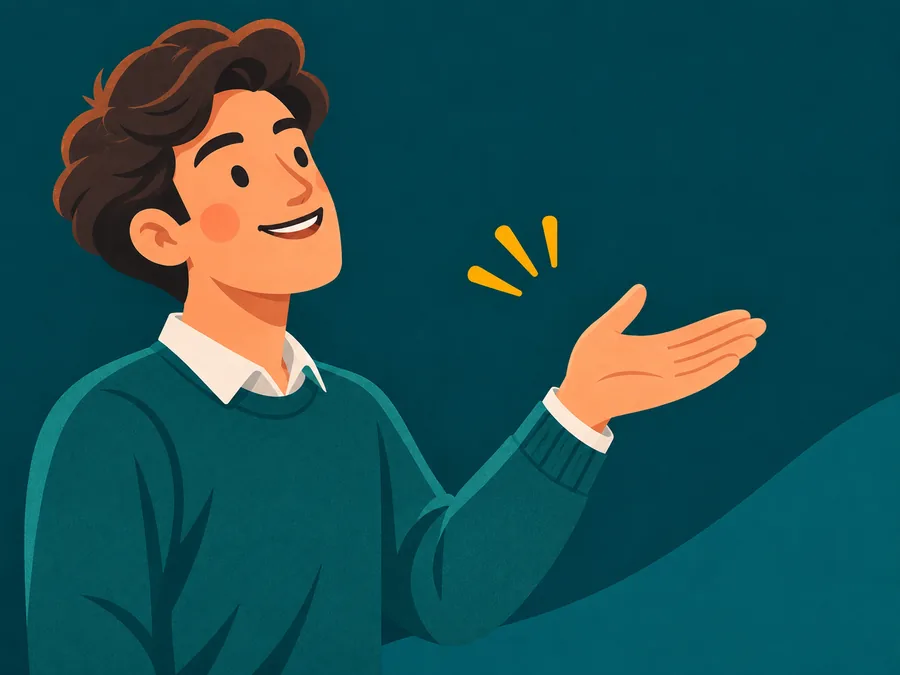
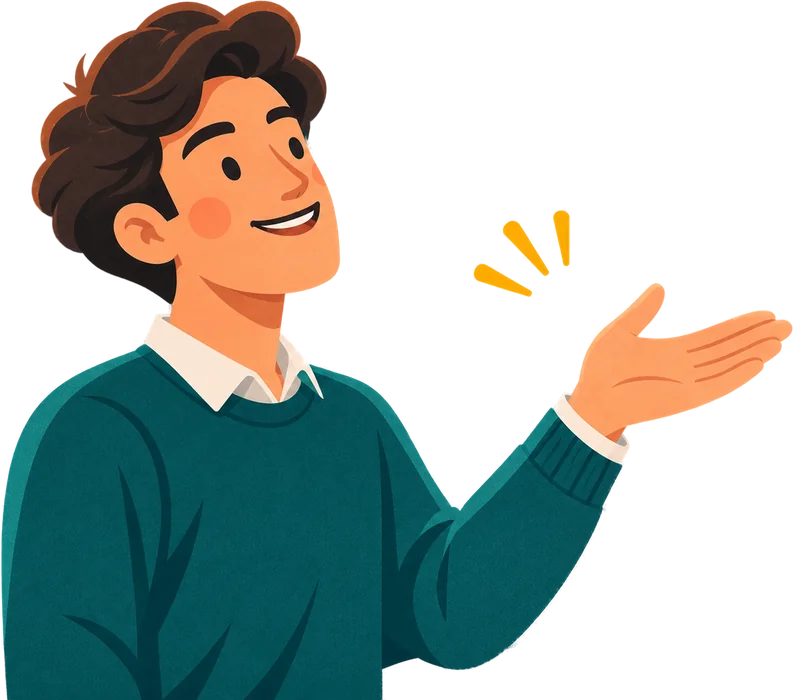
Footer: use background-removed character illustrations
Claude-Session: https://claude.ai/code/session_018T3zNJwnczoeQuxUZnZxHg

diff --git a/bold/style.css b/bold/style.css
@@ -265,12 +265,12 @@ img, svg { display: block; }
 .footer::after { content: ""; position: absolute; right: -90px; top: -110px; width: 260px; height: 260px; border-radius: 50%; background: var(--ink-2); }
 .footer-in { display: grid; grid-template-columns: 1fr 1fr; gap: 40px; padding-top: 50px; position: relative; z-index: 1; }
 .f-left h3 { font-size: 20px; font-weight: 500; line-height: 1.3; max-width: 380px; }
-.f-person {
-  position: relative; width: min(360px, 100%); aspect-ratio: 4 / 3; margin: 26px 0 40px;
-  border-radius: 26px; overflow: hidden; background: #0A3F48;
-  box-shadow: 0 20px 40px -24px rgba(0,0,0,.6);
+.f-person { position: relative; width: min(330px, 100%); aspect-ratio: 793 / 700; margin-top: 30px; }
+.f-person::before { /* soft circle behind the character */
+  content: ""; position: absolute; left: 6%; bottom: 0; width: 78%; aspect-ratio: 1; border-radius: 50%;
+  background: var(--ink-2);
 }
-.f-person .card-photo { object-position: center; }
+.f-person .card-photo { object-fit: contain; object-position: center bottom; z-index: 1; }
 .f-right { display: grid; grid-template-columns: 1fr auto; grid-template-rows: auto 1fr; gap: 20px; padding-bottom: 40px; }
 .f-links { list-style: none; display: grid; gap: 14px; font-size: 14px; }
 .f-links a { opacity: .9; transition: color .2s; }
@@ -379,3 +379,4 @@ img, svg { display: block; }
 }
 
 [dir="rtl"] .f-person .card-photo { transform: scaleX(-1); }
+[dir="rtl"] .f-person::before { left: auto; right: 6%; }
